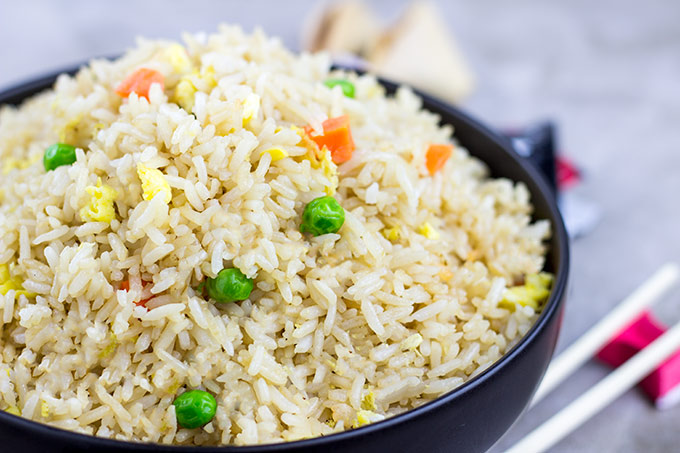
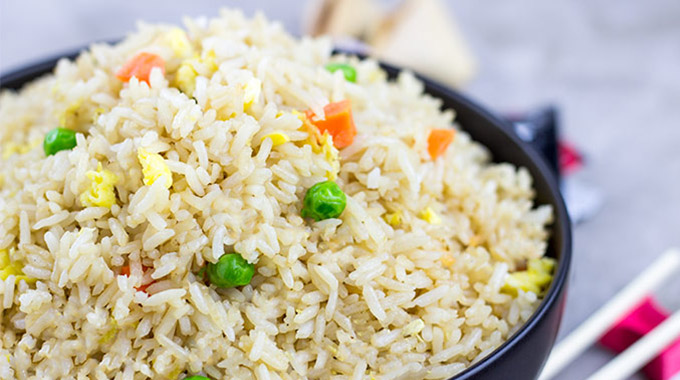
resized home page images

diff --git a/src/pages/HomePage/index.html b/src/pages/HomePage/index.html
@@ -24,7 +24,7 @@
     <!-- Navigation -->
     <nav class="navbar navbar-expand-lg navbar-dark bg-dark fixed-top">
       <div class="container">
-        <a class="navbar-brand" href="#">Start Bootstrap</a>
+        <a class="navbar-brand" href="#">Psycho Hut Restaurant</a>
         <button class="navbar-toggler" type="button" data-toggle="collapse" data-target="#navbarResponsive" aria-controls="navbarResponsive" aria-expanded="false" aria-label="Toggle navigation">
           <span class="navbar-toggler-icon"></span>
         </button>
@@ -55,7 +55,7 @@
       <!-- Jumbotron Header -->
       <header class="jumbotron my-4">
         <h1 class="display-3">A Warm Welcome!</h1>
-        <p class="lead">Lorem ipsum dolor sit amet, consectetur adipisicing elit. Ipsa, ipsam, eligendi, in quo sunt possimus non incidunt odit vero aliquid similique quaerat nam nobis illo aspernatur vitae fugiat numquam repellat.</p>
+        <p class="lead">The home to most delicious meals you can find in Sri Lanka.</p>
         <a href="#" class="btn btn-primary btn-lg">Order a Meal!</a>
       </header>
 
@@ -67,7 +67,8 @@
             <img class="card-img-top" src="images/rice.jpg" alt="">
             <div class="card-body">
               <h4 class="card-title">Rice and Curry</h4>
-              <p class="card-text">Lorem ipsum dolor sit amet, consectetur adipisicing elit. Sapiente esse necessitatibus neque.</p>
+              <p class="card-text">Rice and curry is a popular dish in the Southern Indian states of Andhra Pradesh, Telangana, Karnataka, Kerala, and Tamil
+              Nadu, as well as in Sri Lanka and Bangladesh.</p>
             </div>
             <div class="card-footer">
               <a href="../order-page/order.php?fooditem=1" class="btn btn-primary">Rs.120/=</a>
@@ -80,7 +81,8 @@
             <img class="card-img-top" src="images/fried.jpg" alt="">
             <div class="card-body">
               <h4 class="card-title">Fried Rice</h4>
-              <p class="card-text">Lorem ipsum dolor sit amet, consectetur adipisicing elit. Explicabo magni sapiente, tempore debitis beatae culpa natus architecto.</p>
+              <p class="card-text">Fried rice is a dish of cooked rice that has been stir-fried in a wok or a frying pan and is usually mixed with other ingredients
+              such as eggs, vegetables, seafood, or meat.</p>
             </div>
             <div class="card-footer">
               <a href="../order-page/order.php?fooditem=2" class="btn btn-primary">Rs.150/=</a>
@@ -93,7 +95,8 @@
             <img class="card-img-top" src="images/String-Hoppers.jpg" alt="">
             <div class="card-body">
               <h4 class="card-title">String Hoppers</h4>
-              <p class="card-text">Lorem ipsum dolor sit amet, consectetur adipisicing elit. Sapiente esse necessitatibus neque.</p>
+              <p class="card-text"></p>String Hoppers are a traditional South Asian cuisine, originating from the Indian subcontinent, consisting of rice flour pressed
+              into noodle form and then steamed.</p>
             </div>
             <div class="card-footer">
               <a href="../order-page/order.php?fooditem=3" class="btn btn-primary">Rs.80/=</a>
@@ -106,7 +109,8 @@
             <img class="card-img-top" src="images/hoppers.jpg" alt="">
             <div class="card-body">
               <h4 class="card-title">Hoppers</h4>
-              <p class="card-text">Lorem ipsum dolor sit amet, consectetur adipisicing elit. Explicabo magni sapiente, tempore debitis beatae culpa natus architecto.</p>
+              <p class="card-text">Hoppers are a type of pancake, originating from the Indian subcontinent, made with fermented rice batter and coconut milk.
+              It is a common food in Kerala,Tamil Nadu and Sri Lanka.</p>
             </div>
             <div class="card-footer">
               <a href="../order-page/order.php?fooditem=4" class="btn btn-primary">Rs.100/=</a>
@@ -115,21 +119,14 @@
         </div>
 
       </div>
-      <!-- /.row -->
-      <div class="testimonials">
-        <h2 class="text-center">People Love It!</h2>
-        <blockquote>
-            <p id="quote">Lorem ipsum dolor sit amet, consectetur adipiscing elit. Integer posuere erat a ante.</p>
-            <footer>Famous tech website</footer>
-        </blockquote>
-    </div>
+      
     </div>
     <!-- /.container -->
 
     <!-- Footer -->
     <footer class="py-5 bg-dark">
       <div class="container">
-        <p class="m-0 text-center text-white">Copyright &copy; Your Website 2017</p>
+        <p class="m-0 text-center text-white">Copyright &copy; Team Ghost 2017</p>
       </div>
       <!-- /.container -->
     </footer>
